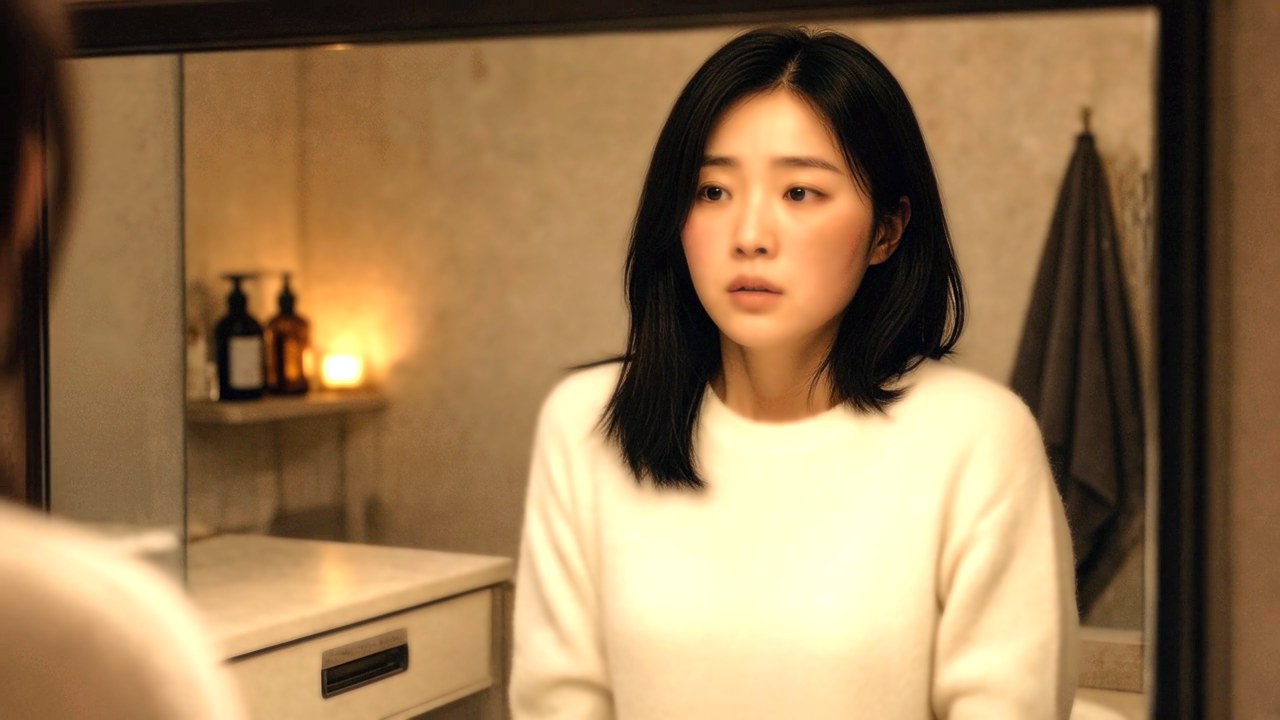
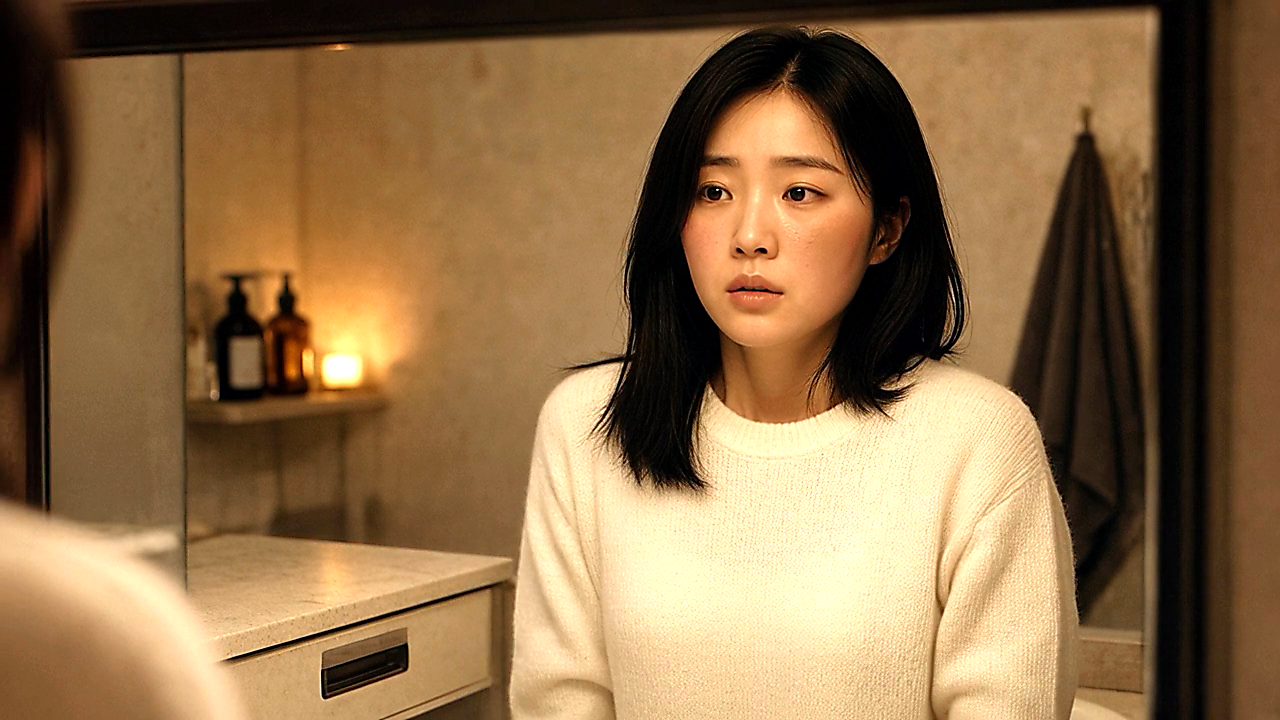
썸네일 I: 애프터 선명하게 (윤곽만 샤프닝)
Claude-Session: https://claude.ai/code/session_01W5aJ6RjiqXjewxs5XWe8qJ

diff --git a/CLAUDE.md b/CLAUDE.md
@@ -103,7 +103,7 @@
   위쪽 가득, 사이에 빨간 >> 화살표, 원장님은 오려서 오른쪽 아래, 글자는 아래 두 줄('얼굴이 빨갛다면' 빨간 띠 + '딱 3가지만 외우세요').
   비포·애프터는 반드시 같은 사진, 같은 각도로: 다른 장면(정면 vs 옆모습)을 붙이면 어색하다 (2026-11-02 지적).
   애프터는 비포 사진에서 볼의 붉은기만 이마 피부색 쪽으로 걷어 만든다(LAB a* 낮추기). 차이는 극명하게: 비포는 붉은기를 더 진하게,
-  애프터는 피부 결을 부드럽고 환하게, 배경은 밝게(`panel_lift` 0.8, `fill_bright`). 예: `deliverables/주사피부염_치료_세가지/썸네일_I_설정.json`.
+  애프터는 피부 결을 부드럽고 환하게(뿌옇지 않게: 피부 흐림은 약하게, 윤곽만 선명하게 UnsharpMask threshold 8), 배경은 밝게(`panel_lift`, `fill_bright`). 예: `deliverables/주사피부염_치료_세가지/썸네일_I_설정.json`.
 
 ## 검수
 - 렌더 후 사용자가 지적한 종류의 문제(슬라이드 카드가 빈 화면이나 반쯤 가려진 채 멈춤, 끝 말 잘림, 1초 미만 깜빡임)는
